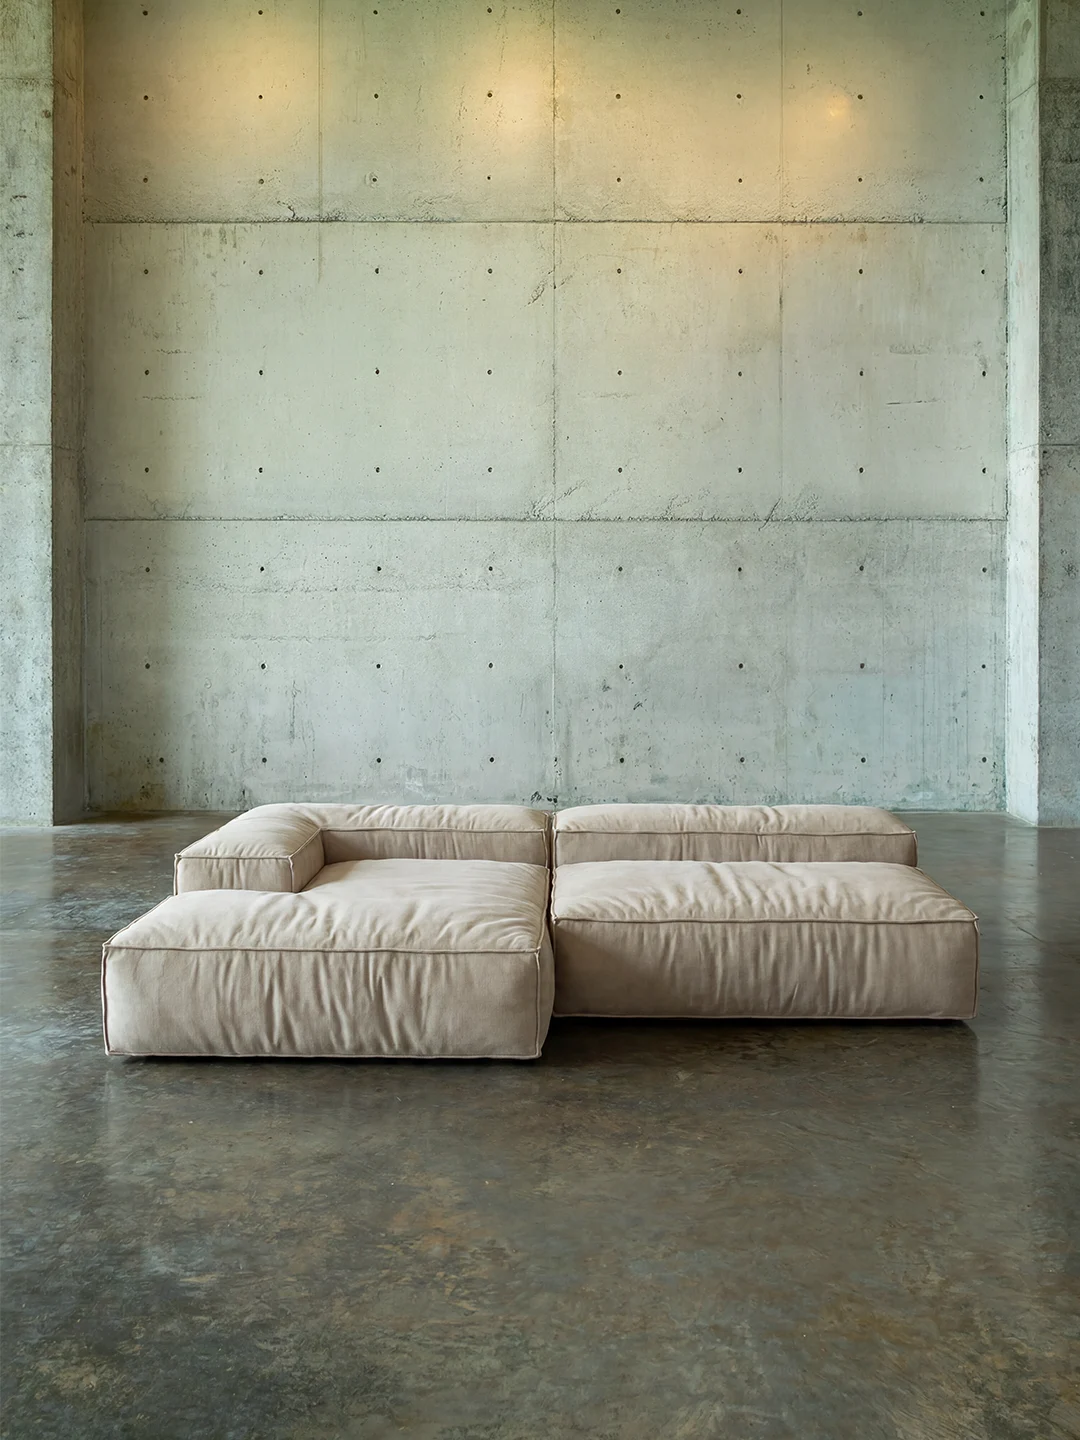
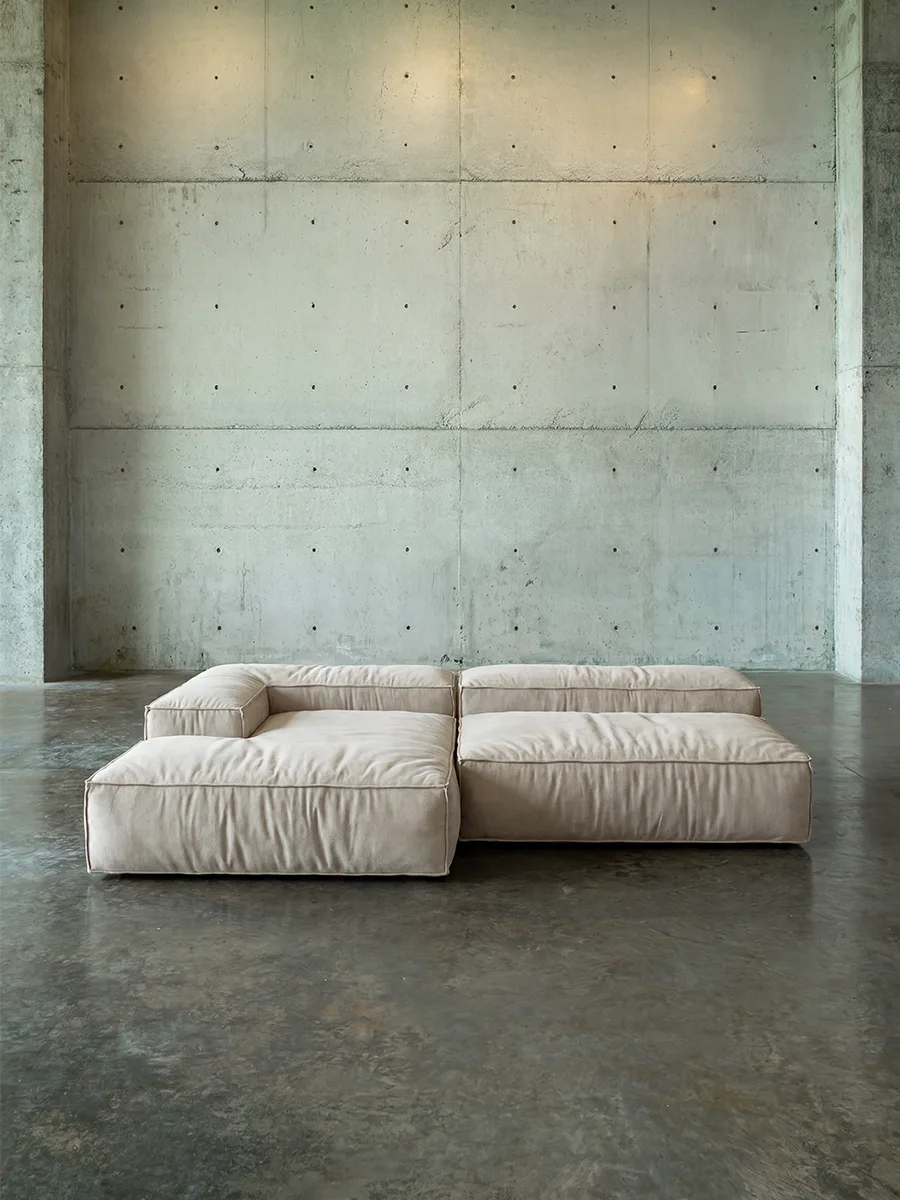
ok

diff --git a/index.html b/index.html
@@ -10,11 +10,10 @@
   <link rel="apple-touch-icon" href="apple-touch-icon.png">
   <link rel="stylesheet" href="style.css">
   <link rel="preconnect" href="https://fonts.googleapis.com">
-  <link href="https://fonts.googleapis.com/css2?family=Inter:wght@300;400;700&family=Space+Mono:wght@400&display=swap" rel="stylesheet">
+  <link href="https://fonts.googleapis.com/css2?family=Inter:wght@300;400;700&family=Space+Mono:wght@400;700&display=swap" rel="stylesheet">
   <style>
 
-    /* Index: no padding-top — hero starts directly below fixed nav */
-    .page { padding-top: 0 !important; }
+    /* Hero now sits below the fixed nav (no overlap, full image visible) */
 
     /* ─── HERO IMAGE ─────────────────────────────────────── */
     .hero-image {
@@ -39,26 +38,31 @@
     .hero-image-content {
       position: relative;
       z-index: 2;
-      padding: 8rem 5% 0;
+      padding: 3.5rem 5% 0;
       max-width: 900px;
     }
     .hero-image-headline {
       font-family: 'Space Mono', monospace;
-      font-size: clamp(34px, 7vw, 96px);
+      font-size: clamp(42px, 8.5vw, 116px);
       font-weight: 400;
       color: #111;
       line-height: 1;
       letter-spacing: -0.03em;
-      margin-bottom: 1.25rem;
+      margin-bottom: 1.5rem;
     }
     .hero-image-sub {
       font-family: 'Space Mono', monospace;
-      font-size: clamp(13px, 1.3vw, 16px);
+      font-size: clamp(13px, 1.5vw, 20px);
       font-weight: 400;
       color: rgba(17, 17, 17, 0.8);
-      line-height: 1.6;
+      line-height: 1.55;
       letter-spacing: 0.04em;
-      max-width: 460px;
+      max-width: 560px;
+    }
+    .hero-image-sub .sub-mobile { display: none; }
+    @media (max-width: 900px) {
+      .hero-image-sub .sub-desktop { display: none; }
+      .hero-image-sub .sub-mobile { display: inline; }
     }
     .hero-image-buttons {
       position: absolute;
@@ -82,12 +86,13 @@
         background-color: #F0EDE4;
       }
       .hero-image-content {
-        padding: 6.5rem 1.25rem 0;
+        padding: 4rem 1.25rem 0;
+        padding-left: calc(1.25rem + 6px);
         max-width: 100%;
       }
-      .hero-image-sub { max-width: 100%; }
+      .hero-image-sub { max-width: 100%; font-size: 18px; }
       .hero-image-buttons {
-        bottom: 2.5rem;
+        bottom: 4rem;
         gap: 0.5rem;
         width: calc(100% - 2.5rem);
         max-width: 360px;
@@ -236,13 +241,12 @@
 
     .marquee-wrap {
       overflow: hidden;
-      border-top: 0.5px solid #C8C4BB;
-      border-bottom: 0.5px solid #C8C4BB;
-      padding: 0.85rem 0;
+      background: #111;
+      padding: 1rem 0;
     }
     .marquee-track {
       display: flex; width: max-content;
-      animation: marquee 18s linear infinite;
+      animation: marquee 45s linear infinite;
     }
     @keyframes marquee {
       from { transform: translateX(0); }
@@ -252,9 +256,9 @@
       font-family: 'Inter', sans-serif;
       font-size: 10px; font-weight: 700;
       letter-spacing: 0.22em; text-transform: uppercase;
-      color: #111; padding: 0 1.5rem; white-space: nowrap;
+      color: #F0EDE4; padding: 0 1.5rem; white-space: nowrap;
     }
-    .marquee-sep { opacity: 0.3; padding: 0; }
+    .marquee-sep { opacity: 0.5; padding: 0; }
 
     .product-strip {
       display: grid; grid-template-columns: 1fr 1fr;
@@ -447,7 +451,7 @@
   <section class="hero-image" aria-label="Oversized sofas by raveforms">
     <div class="hero-image-content">
       <h2 class="hero-image-headline">Oversized Sofas.</h2>
-      <p class="hero-image-sub">Mattress-scale surfaces built around how you actually rest. Made to order in Bangkok.</p>
+      <p class="hero-image-sub"><span class="sub-desktop">Mattress-scale surfaces built around how <span style="white-space: nowrap;">you actually rest. Made to order in Bangkok.</span></span><span class="sub-mobile">Mattress-scale surfaces. <span style="white-space: nowrap;">Made to order in Bangkok.</span></span></p>
     </div>
     <div class="hero-image-buttons">
       <a href="products.html" class="btn-on-light">View products</a>
@@ -486,10 +490,10 @@
 
     <div class="marquee-wrap">
       <div class="marquee-track">
-        <span class="marquee-item">Made to order</span><span class="marquee-item marquee-sep">&nbsp;&nbsp;·&nbsp;&nbsp;</span><span class="marquee-item">Oversized</span><span class="marquee-item marquee-sep">&nbsp;&nbsp;·&nbsp;&nbsp;</span><span class="marquee-item">Contemporary Form</span><span class="marquee-item marquee-sep">&nbsp;&nbsp;·&nbsp;&nbsp;</span><span class="marquee-item">Craft Product</span><span class="marquee-item marquee-sep">&nbsp;&nbsp;·&nbsp;&nbsp;</span>
-        <span class="marquee-item">Made to order</span><span class="marquee-item marquee-sep">&nbsp;&nbsp;·&nbsp;&nbsp;</span><span class="marquee-item">Oversized</span><span class="marquee-item marquee-sep">&nbsp;&nbsp;·&nbsp;&nbsp;</span><span class="marquee-item">Contemporary Form</span><span class="marquee-item marquee-sep">&nbsp;&nbsp;·&nbsp;&nbsp;</span><span class="marquee-item">Craft Product</span><span class="marquee-item marquee-sep">&nbsp;&nbsp;·&nbsp;&nbsp;</span>
-        <span class="marquee-item">Made to order</span><span class="marquee-item marquee-sep">&nbsp;&nbsp;·&nbsp;&nbsp;</span><span class="marquee-item">Oversized</span><span class="marquee-item marquee-sep">&nbsp;&nbsp;·&nbsp;&nbsp;</span><span class="marquee-item">Contemporary Form</span><span class="marquee-item marquee-sep">&nbsp;&nbsp;·&nbsp;&nbsp;</span><span class="marquee-item">Craft Product</span><span class="marquee-item marquee-sep">&nbsp;&nbsp;·&nbsp;&nbsp;</span>
-        <span class="marquee-item">Made to order</span><span class="marquee-item marquee-sep">&nbsp;&nbsp;·&nbsp;&nbsp;</span><span class="marquee-item">Oversized</span><span class="marquee-item marquee-sep">&nbsp;&nbsp;·&nbsp;&nbsp;</span><span class="marquee-item">Contemporary Form</span><span class="marquee-item marquee-sep">&nbsp;&nbsp;·&nbsp;&nbsp;</span><span class="marquee-item">Craft Product</span><span class="marquee-item marquee-sep">&nbsp;&nbsp;·&nbsp;&nbsp;</span>
+        <span class="marquee-item">Made to order</span><span class="marquee-item marquee-sep">&nbsp;&nbsp;/&nbsp;&nbsp;</span><span class="marquee-item">Oversized</span><span class="marquee-item marquee-sep">&nbsp;&nbsp;/&nbsp;&nbsp;</span><span class="marquee-item">Contemporary Form</span><span class="marquee-item marquee-sep">&nbsp;&nbsp;/&nbsp;&nbsp;</span><span class="marquee-item">Craft Product</span><span class="marquee-item marquee-sep">&nbsp;&nbsp;/&nbsp;&nbsp;</span>
+        <span class="marquee-item">Made to order</span><span class="marquee-item marquee-sep">&nbsp;&nbsp;/&nbsp;&nbsp;</span><span class="marquee-item">Oversized</span><span class="marquee-item marquee-sep">&nbsp;&nbsp;/&nbsp;&nbsp;</span><span class="marquee-item">Contemporary Form</span><span class="marquee-item marquee-sep">&nbsp;&nbsp;/&nbsp;&nbsp;</span><span class="marquee-item">Craft Product</span><span class="marquee-item marquee-sep">&nbsp;&nbsp;/&nbsp;&nbsp;</span>
+        <span class="marquee-item">Made to order</span><span class="marquee-item marquee-sep">&nbsp;&nbsp;/&nbsp;&nbsp;</span><span class="marquee-item">Oversized</span><span class="marquee-item marquee-sep">&nbsp;&nbsp;/&nbsp;&nbsp;</span><span class="marquee-item">Contemporary Form</span><span class="marquee-item marquee-sep">&nbsp;&nbsp;/&nbsp;&nbsp;</span><span class="marquee-item">Craft Product</span><span class="marquee-item marquee-sep">&nbsp;&nbsp;/&nbsp;&nbsp;</span>
+        <span class="marquee-item">Made to order</span><span class="marquee-item marquee-sep">&nbsp;&nbsp;/&nbsp;&nbsp;</span><span class="marquee-item">Oversized</span><span class="marquee-item marquee-sep">&nbsp;&nbsp;/&nbsp;&nbsp;</span><span class="marquee-item">Contemporary Form</span><span class="marquee-item marquee-sep">&nbsp;&nbsp;/&nbsp;&nbsp;</span><span class="marquee-item">Craft Product</span><span class="marquee-item marquee-sep">&nbsp;&nbsp;/&nbsp;&nbsp;</span>
       </div>
     </div>
 
@@ -686,10 +690,11 @@
       c.el.style.opacity=op;
     });
 
-    // Cap1 typewriter — reveal letters one-by-one from p=0.33 to p=0.60
+    // Cap1 typewriter — reveal letters one-by-one (earlier start on mobile)
     if(cap1Chars && cap1Chars.length){
-      var revealStart = 0.33;
-      var revealEnd   = 0.60;
+      var isMobile = window.innerWidth <= 900;
+      var revealStart = isMobile ? 0.10 : 0.33;
+      var revealEnd   = isMobile ? 0.40 : 0.60;
       var visN;
       if(p < revealStart) visN = 0;
       else if(p > revealEnd) visN = cap1Chars.length;

diff --git a/style.css b/style.css
@@ -50,10 +50,12 @@ body {
   font-family: 'Inter', sans-serif; font-size: 15px; font-weight: 400;
   letter-spacing: 0.14em; text-transform: uppercase;
   background: none; border: none; cursor: pointer; padding: 0;
+  transition: opacity 0.2s;
 }
-.nav-links > li:hover { opacity: 0.45; }
-.nav-links > li.menu-open:hover { opacity: 1; }
-.nav-links > li:has(#prod-menu):hover { opacity: 1; }
+.nav-links > li:hover > a,
+.nav-links > li:hover > #prod-btn { opacity: 0.45; }
+.nav-links > li.menu-open:hover > a,
+.nav-links > li.menu-open:hover > #prod-btn { opacity: 1; }
 .nav-links li.active > a,
 .nav-links li.active > a:visited,
 .nav-links li.active { font-weight: 700 !important; text-decoration: none !important; border-bottom: none !important; color: #111 !important; }